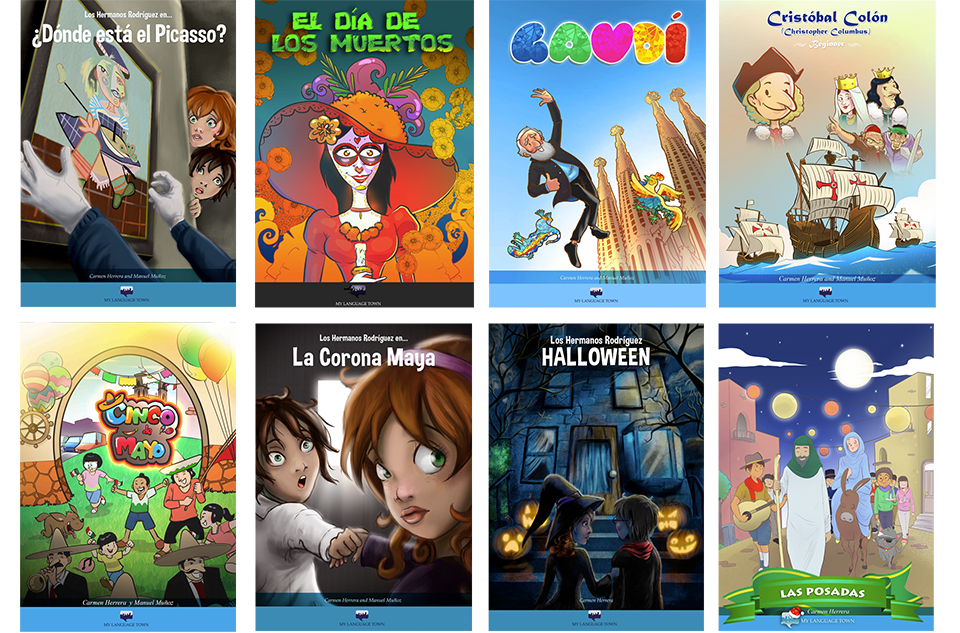
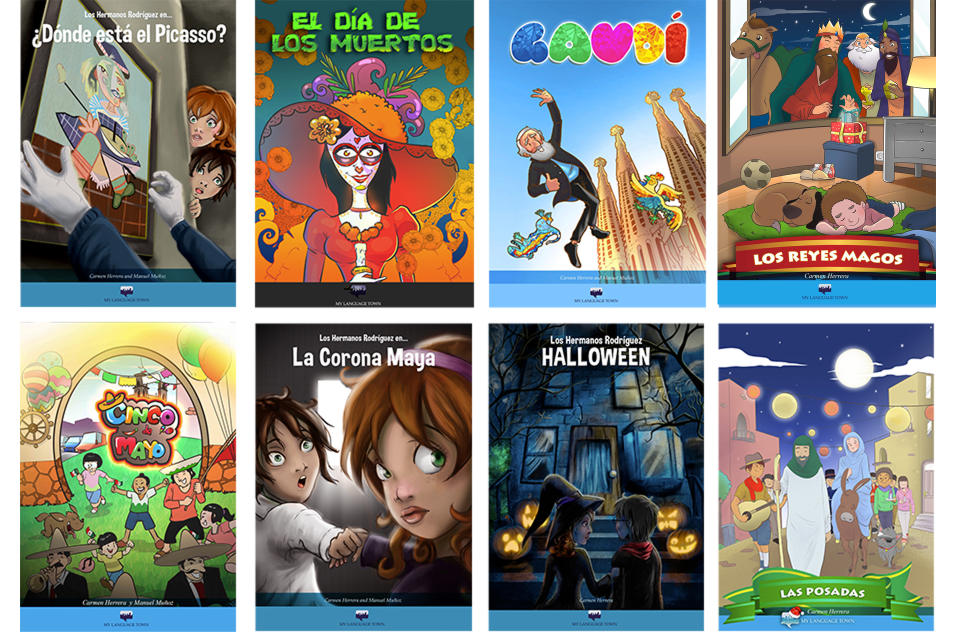
MLT page edits

Changed region(s): [[0.7188, 0.0, 1.0, 0.4803]]

diff --git a/mylanguagetown/index.php b/mylanguagetown/index.php
@@ -93,21 +93,21 @@
 					<h3 class="showSingle" target="3"><strong>Elementary Level eReaders </strong></h3>
 					<div id="div3" class="targetDiv" style="display:none;">
                         <p>My Language Town's Elementary Spanish Series is a fantastic collection of quick reads to learn elementary Spanish effortlessly&mdash;including songs, stories, poems and plenty of delightful illustrations. Students learn everyday vocabulary, basic sentences and expressions in a highly interactive, engaging and effective way.</p>
-                        <p><a class="learn-more-link smaller-link" href="https://drive.google.com/file/d/0B2wIWFpktdtATXdiS1V3M25MTzQ/view?usp=sharing" target="_blank">My Language Town eReader Titles by Level</a></p>
+                        <p><a class="learn-more-link smaller-link" href="https://drive.google.com/file/d/0B2BRD_gaMsOKLVROV2NCN1lzV0k/view?usp=sharing" target="_blank">My Language Town eReader Titles by Level</a></p>
                         <img src="<?php echo $server; ?>lib/images/mlt-elementary.png" />
 					</div>
 			<!-- 3 -->
                     <h3 class="showSingle" target="2"><strong>Beginner Level eReaders </strong></h3>
 					<div id="div2" class="targetDiv" style="display:none;">
-                        <p>Embark on Christopher Columbus's journey to the New World or join the Rodríguez in their hilarious quest for a legendary Mayan crown amongst Chihuahuas and mariachis. My Language Town Beginners Series is packed with thrills, laughs and adventure. My Language Town is the hometown for every student of Spanish language. Come join us!</p>
-                        <p><a class="learn-more-link smaller-link" href="https://drive.google.com/file/d/0B2wIWFpktdtATXdiS1V3M25MTzQ/view?usp=sharing" target="_blank">My Language Town eReader Titles by Level</a></p>
+                        <p>Learn about el d&#237;a de los muertos or join the Rodríguez brothers in their hilarious quest for a legendary Mayan crown amongst Chihuahuas and mariachis. My Language Town Beginners Series is packed with thrills, laughs and adventure. My Language Town is the hometown for every student of Spanish language. Come join us!</p>
+                        <p><a class="learn-more-link smaller-link" href="https://drive.google.com/file/d/0B2BRD_gaMsOKLVROV2NCN1lzV0k/view?usp=sharing" target="_blank">My Language Town eReader Titles by Level</a></p>
                         <img src="<?php echo $server; ?>lib/images/mlt-beginner.png" />
 					</div>
 			<!-- 4 -->
 					<h3 class="showSingle" target="5"><strong>Low intermediate/Intermediate Level eReaders</strong></h3>
 					<div id="div5" class="targetDiv" style="display:none;">
                         <p>My Language Town's Intermediate Series is the place to drop by for those students of Spanish in the mood for adventure. Fact or fiction, historical or contemporary, quick reads or longer novels, a war romance in Madrid or a tango-paced murder mystery in Buenos Aires&mdash;you get to choose!</p>
-                        <p><a class="learn-more-link smaller-link" href="https://drive.google.com/file/d/0B2wIWFpktdtATXdiS1V3M25MTzQ/view?usp=sharing" target="_blank">My Language Town eReader Titles by Level</a></p>
+                        <p><a class="learn-more-link smaller-link" href="https://drive.google.com/file/d/0B2BRD_gaMsOKLVROV2NCN1lzV0k/view?usp=sharing" target="_blank">My Language Town eReader Titles by Level</a></p>
                         <img src="<?php echo $server; ?>lib/images/mlt-low.png" />
 					</div>
 				</div>
